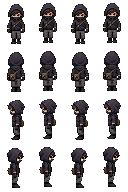
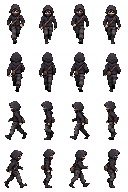
Animate burglar walking in all four directions

diff --git a/docs/PROGRESS.md b/docs/PROGRESS.md
@@ -48,3 +48,5 @@ Calle Modistas revisada usando city.png directamente como referencia: misma comp
 Modistas: nueva composición arquitectónica con cuatro alturas/anchos distintos, escalera de incendios, lavandería con balcón, peluquería con mirador, sastrería baja con claraboyas, bicicleta/banco/cajas. Conserva paleta, perspectiva y calle mojada. Entrada atelier ajustada a x326 según imagen; marcador de mapa identifica Calle Modistas. Fuente modistas-varied-source.png.
 
 Revisión integral 2026-11-14: aviso sin detenidos condicionado al recuento real; sonido cash-in nuevo al cobrar con existencias; mapeo de neveras corregido y HUD por categorías; salida por agotamiento. Ladrones programados 2–4 por turno (sujetos a puerta/cupo), roban 1–5 unidades disponibles y devolución recupera lo sustraído. Puerta bloqueada provoca huida por pasillos; civiles buscan refugio junto al mostrador. Perros cada45–75s con captura mediante E, seguimiento y retirada en la entrada, patas con alternancia básica. Policía persigue también posibles fugitivos; escolta con detenido delante a distancia corta, patrulla con radios de rueda rotatorios. Personajes perro/agente pasan al orden Y raíz con pivote de pies. Escondite reduce altura y oculta avatar progresivamente, etiqueta OCULTO. Textos blancos con borde negro. Fantasmas móviles por navegación: persecución al empleado salvo escondido, apertura real de neveras y parpadeos, sonidos sintetizados voz/grito. El deterioro continúa exclusivamente mientras la puerta está abierta. test_flow, test_pursuit y test_revision_complete aprobados; captura art-store revisada. El render gráfico al cerrar deja avisos de recursos de audio: pendiente limpiar el cierre de reproducción; las pruebas headless cierran sin esos avisos.
+
+Ladrón: reemplazada hoja estática repetida por spritesheet de marcha de 16 poses distintas, filas frente/espalda/izquierda/derecha, brazos y piernas alternados, RGBA128x192, pies y44. Fuente original image_gen burglar-walk-source.png referenciada al ladrón y empleado; reducción nearest con escala uniforme, alpha>=240. Cadencia máxima1.8 al huir y reposo frame1, sin alterar el reposo del resto de actores. Preview docs/burglar-walk.gif. Verificada diversidad de frames por fila y pivote de pies; test_character_motion fuerza aparición del ladrón y comprueba cuatro direcciones y reposo.
